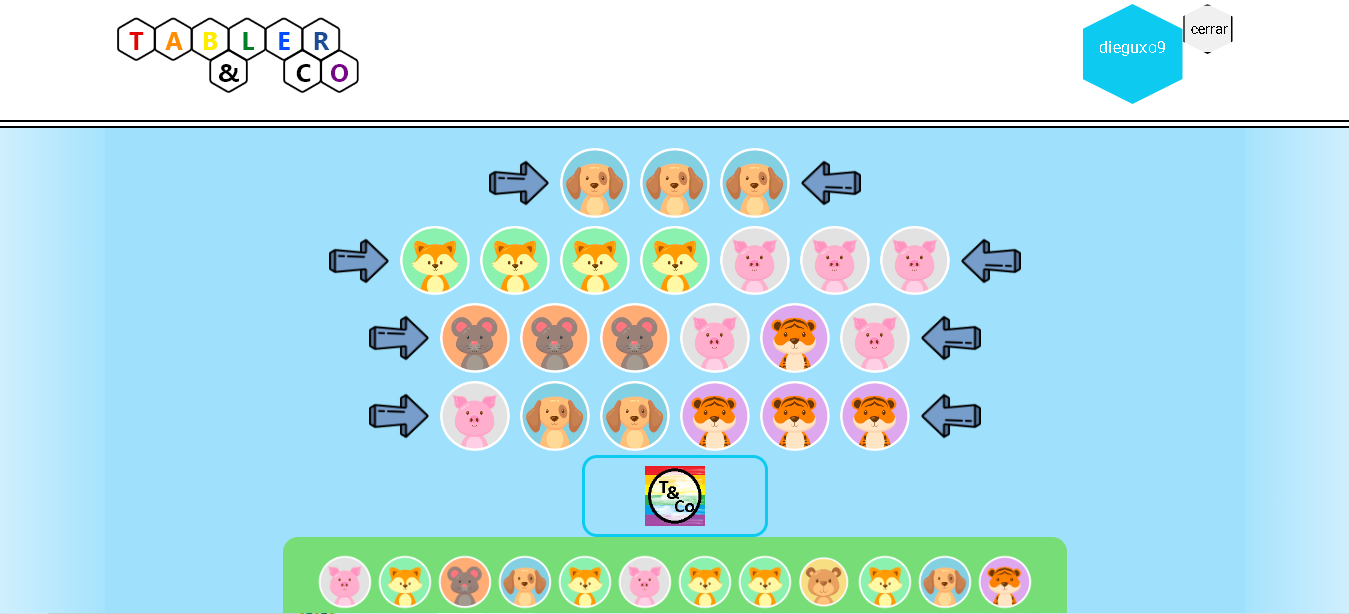
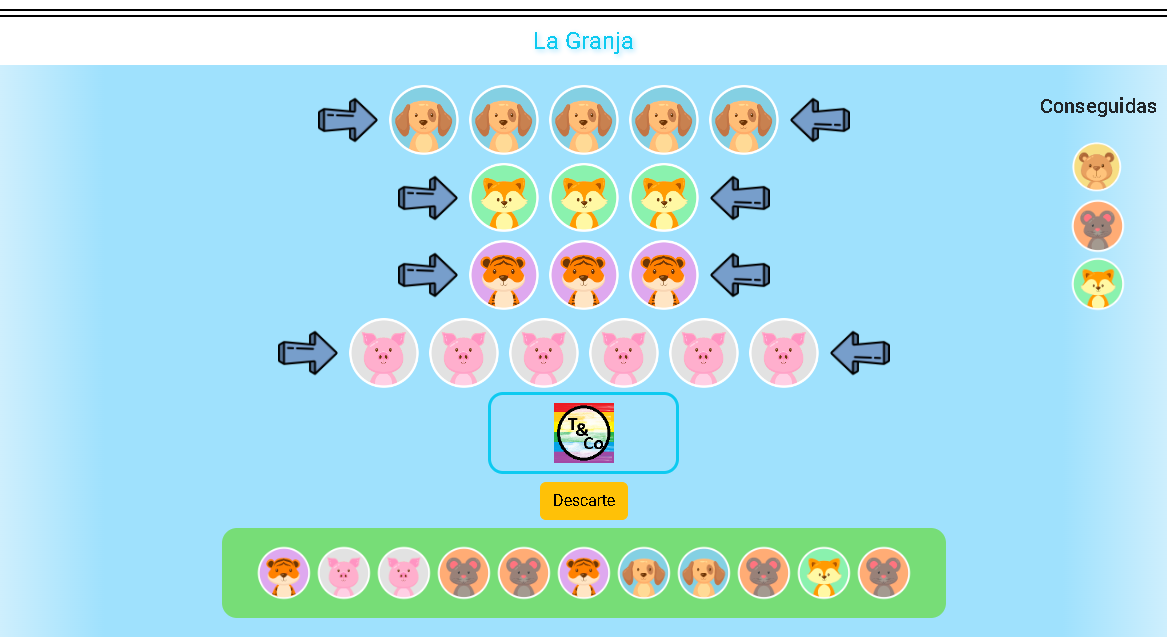
juego casi terminado

diff --git a/src/main/frontend/tablerosandco/src/app/tablero/tablero/tablero.component.html b/src/main/frontend/tablerosandco/src/app/tablero/tablero/tablero.component.html
@@ -1,26 +1,48 @@
 <h1 class="m-auto w-auto text-center my-2 text-info">La Granja</h1>
 <div class="main ">
-<div class="fondoTablero container-xl">
+<div class="fondoTablero container-xl postion-relative">
 <div class="d-flex justify-content-center">
   <div #filas class=" filas" ></div>
 </div>
-  <div class="-flex-col text-center ">
+  <div class="-flex-col text-center postion-relative ">
   <div class="col-2 m-auto justify-self-center">
     <app-baraja  [ngClass]="showChild?'':'hidden'" (onChildInit)="dataIsHere($event)" (click)="robar()"></app-baraja>
   </div>
   <button class="btn btn-warning my-2 justify-self-center " (click)="botonDescartar()">Descarte</button>
   <div style="display: flex;  "  *ngIf="mano.length>0">
     <div style="background-color: #77dd77 " class=" manoClass mb-2"  cdkDropListOrientation="horizontal" cdkDropList   (cdkDropListDropped)="drop($event)" >
-
       <div cdkDrag id="mano" *ngFor="let carta of mano">
-        <img title="Para descartar necesitas : {{carta.numeroDescarte}}" (click)="cartaSeleccionada(carta)" *ngIf="!carta.seleccionado ; else noSelecionada" width="60" id="mano{{carta.nombre}}" src="{{carta.url}}">
-        <ng-template #noSelecionada> <img title="Para descartar necesitas : {{carta.numeroDescarte}}"  width="80" id="mano{{carta.nombre}}" src="{{carta.url}}"></ng-template>
+        <img style="cursor: pointer" title="Para descartar necesitas : {{carta.numeroDescarte}}" (click)="cartaSeleccionada(carta)" *ngIf="!carta.seleccionado ; else noSelecionada" width="60" id="mano{{carta.nombre}}" src="{{carta.url}}">
+        <ng-template #noSelecionada> <img style="cursor: pointer" title="Para descartar necesitas : {{carta.numeroDescarte}}"  width="80" id="mano{{carta.nombre}}" src="{{carta.url}}"></ng-template>
         </div>
     </div>
   </div>
+    <div class="flex justify-content-center position-absolute" style="right: 1%; top:30%"  *ngIf="conseguidas.length>0">
+      <h2>Conseguidas</h2>
+      <div *ngFor="let carta of conseguidas">
+        <img style="cursor: pointer ;width:60px;" class="col-12" (click)="cartaSeleccionada(carta)"  id="mano{{carta.nombre}}" src="{{carta.url}} " >
+      </div>
+    </div>
   </div>
 </div>
 </div>
 
-
+<div class="modal" id="modalDescarte" style="display:none;" >
+  <div class="modal-dialog">
+    <div class="modal-content">
+      <div class="modal-header">
+        <div class="d-flex justify-content-center w-100" >
+          <img class="img-fluid d-flex " src="./assets/images/logo.png" style="width: 30% ;">
+        </div>
+        <button type="button" class="btn-close" (click)="cerrar()" aria-label="Close"></button>
+      </div>
+      <div class="modal-body fw-bold">
+        <h3 >{{mensaje}}</h3>
+      </div>
+      <div class="modal-footer">
+        <button type="button" class="btn btn-info text-white" (click)="cerrar()">Close</button>
+      </div>
+    </div>
+  </div>
+</div>
 

diff --git a/src/main/frontend/tablerosandco/src/app/pages/usuario/crear/usuario.component.html b/src/main/frontend/tablerosandco/src/app/pages/usuario/crear/usuario.component.html
@@ -8,7 +8,7 @@
     <span class="form-text text-danger"
           *ngIf="formlogin.controls['name'].errors &&
                             formlogin.controls['name'].touched">
-                        No puede estar vacío
+                        No puede estar vacío y debe tener al menos de 3 caracteres
                     </span>
   </div>
   <div class="form-group-item">
@@ -17,7 +17,7 @@
     <span class="form-text text-danger"
           *ngIf="formlogin.controls['apellidos'].errors &&
                             formlogin.controls['apellidos'].touched">
-                        No puede estar vacío y debe tener más de 5 caracteres
+                        No puede estar vacío y debe tener al menos de 3 caracteres
                     </span>
   </div>
   <div class="form-group-item ">
